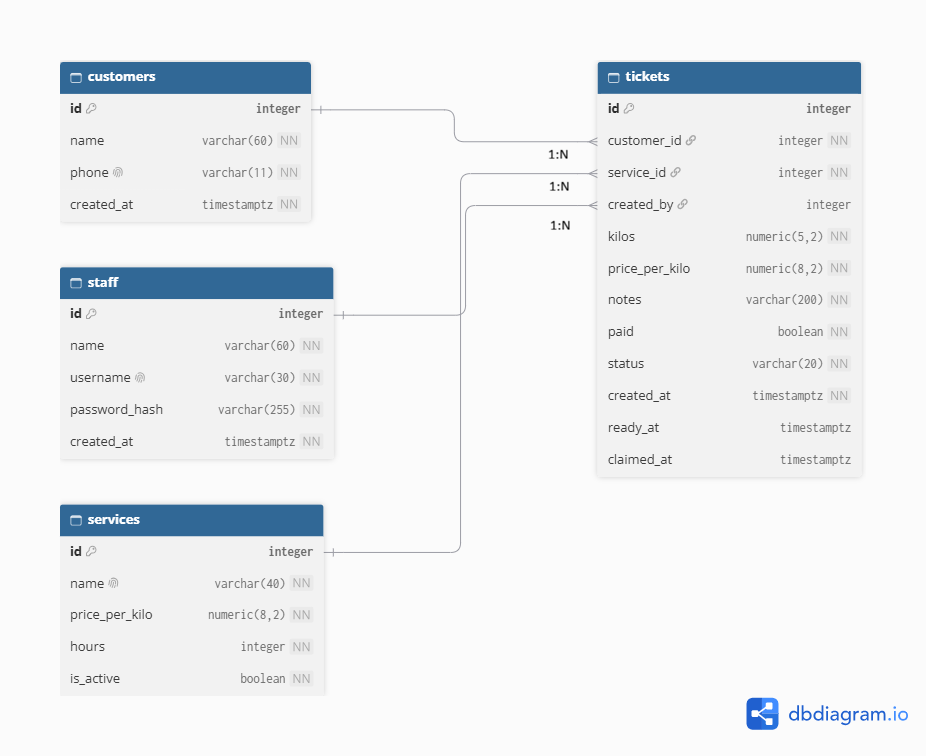
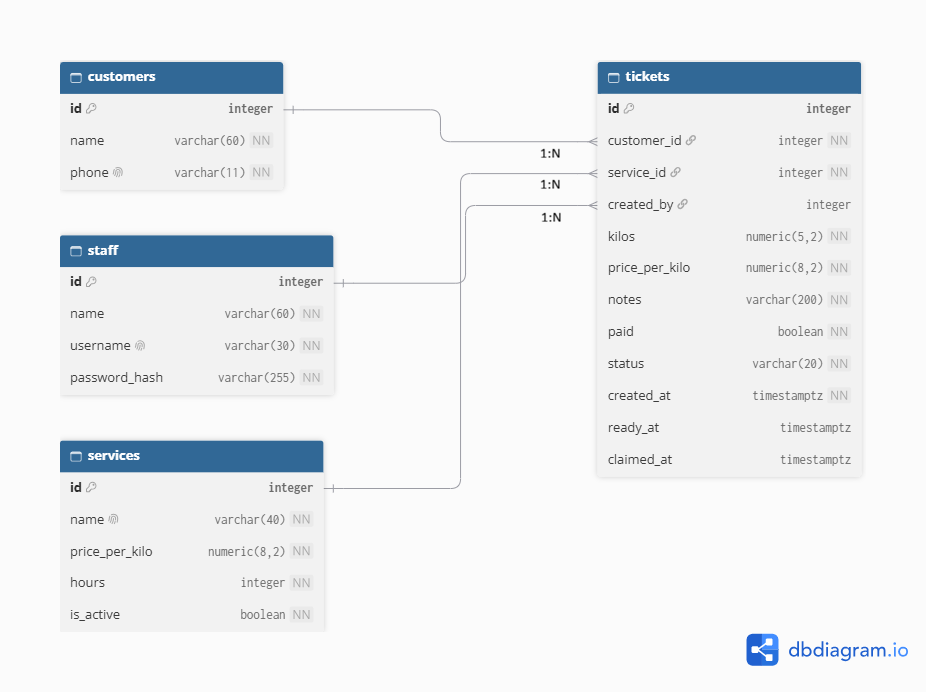
Add schema review and update schema (#2)

diff --git a/docs/week4/schema-review.md b/docs/week4/schema-review.md
@@ -1,0 +1,40 @@
+# CleanQ schema review
+
+I checked the schema against six questions: coverage, one fact in one place, facts not results, bad data, deletes and types. Every Stores data = Yes requirement and every top task in my personas has a table or column, so there are no missing columns. The entries below are the problems and strengths I found.
+
+## Entry 1: ticket price and status
+
+**Works well:** `tickets.price_per_kilo` stores the price at the time of the order, and the total is computed from kilos × price instead of stored. When staff change a service's price (FR-12), old tickets and "Claimed today" sales do not change, and no total ever has to be rewritten. This came from the "Facts, not results" and "One fact in one place" questions.
+
+**Problem:** The `status` column and the `ready_at` and `claimed_at` columns can disagree. A ticket could be `claimed` with no `claimed_at`, which would leave it out of "Claimed today" (FR-11), or have a `claimed_at` earlier than its `created_at`. The column constraints alone do not stop this. Found with question 4, Bad data.
+
+**Change:** Added three table-level CHECK constraints to `tickets` in `schema.md` (section 2c):
+- `CHECK (status <> 'claimed' OR claimed_at IS NOT NULL)`
+- `CHECK (status NOT IN ('ready', 'claimed') OR ready_at IS NOT NULL)`
+- `CHECK (claimed_at IS NULL OR claimed_at >= created_at)`
+
+The ERD is unchanged because no columns were added.
+
+## Entry 2: deletes and unused columns
+
+**Works well:** Both `tickets.customer_id` and `tickets.service_id` use RESTRICT, and services have an `is_active` flag. Staff can switch a service off, but a service or customer with tickets can never be deleted, so old tickets and sales records stay. Only `tickets.created_by` uses SET NULL, because losing "who logged it" matters less than losing the ticket. This came from question 5, Deletes.
+
+**Problem:** `customers.created_at` and `staff.created_at` are not needed by any requirement. Nothing in the app shows or uses when a customer or staff account was made. Found with question 1, Coverage.
+
+**Change:** Removed `created_at` from `customers` and `staff` in `schema.md` (sections 2b and 2c) and in the ERD. `timestamptz` is still used in `tickets`, so every required constraint type is still in the schema.
+
+## Entry 3: customers and bad data
+
+**Works well:** Name and mobile number are stored once in `customers`, not on every ticket. The phone column is UNIQUE with a CHECK for a valid PH number, so one person cannot become two customers by typing the number in different formats once the app normalizes it. Before this, Ana Reyes was stored twice in the list of tickets. This came from question 2, One fact in one place.
+
+**Problem:** The database cannot stop two kinds of mistakes. A foreign key only checks that a service exists, so a ticket can still be created for a service that was switched off. A double tap on "Create ticket" can also make two identical tickets. Found with question 4, Bad data.
+
+**Change:** Kept the schema as it is. The New Order form will only list services where `is_active` is true, and the double-submit guard in `main.js` stays. A database rule for either one would need extra columns or triggers that go beyond a laundry shop's needs, so I am handling them in the app and will test both in Part 4.
+
+## Entry 4: types and estimated pickup
+
+**Works well:** Every moment in time is `timestamptz`, money is `numeric` rather than float or text, kilos have a range CHECK, and `paid` is a boolean. Mobile numbers are text because they are identifiers and not numbers to calculate with. This came from question 6, Types.
+
+**Problem:** Estimated pickup is computed as `tickets.created_at` plus the current `services.hours`. If staff change a service's turnaround (FR-12), the estimate shown on existing tickets changes too. Found with question 3, Facts not results.
+
+**Change:** Kept it, with no stored estimate or `hours` copy on `tickets`. An estimated pickup is a guess that should follow the shop's current turnaround, unlike a price, which is a record of what was charged. Storing a copy would add a column that goes out of date and has to be kept in sync.

diff --git a/docs/week4/schema.md b/docs/week4/schema.md
@@ -34,8 +34,8 @@ Two rules I followed:
 
 | Table | Columns |
 |-------|---------|
-| `customers` | id, name, phone, created_at |
-| `staff` | id, name, username, password_hash, created_at |
+| `customers` | id, name, phone |
+| `staff` | id, name, username, password_hash |
 | `services` | id, name, price_per_kilo, hours, is_active |
 | `tickets` | id, customer_id, service_id, created_by, kilos, price_per_kilo, notes, paid, status, created_at, ready_at, claimed_at |
 
@@ -52,12 +52,10 @@ Where each fact belongs:
 | customers | id | integer, generated | PRIMARY KEY | Generated by the database, never reused |
 | customers | name | varchar(60) | NOT NULL | Every customer has a name, max 60 as in the form |
 | customers | phone | varchar(11) | NOT NULL UNIQUE, CHECK (phone ~ '^09[0-9]{9}$') | One customer per mobile number; only valid PH mobile numbers; stored as text because it is an identifier, not a number to calculate with |
-| customers | created_at | timestamptz | NOT NULL DEFAULT now() | Time zone safe; set by the database |
 | staff | id | integer, generated | PRIMARY KEY | Generated by the database |
 | staff | name | varchar(60) | NOT NULL | Shown in the app |
 | staff | username | varchar(30) | NOT NULL UNIQUE | One account per username |
 | staff | password_hash | varchar(255) | NOT NULL | Only a hash is stored, never the password |
-| staff | created_at | timestamptz | NOT NULL DEFAULT now() | When the account was made |
 | services | id | integer, generated | PRIMARY KEY | Generated by the database |
 | services | name | varchar(40) | NOT NULL UNIQUE | No two services with the same name |
 | services | price_per_kilo | numeric(8,2) | NOT NULL, CHECK (price_per_kilo > 0) | Exact money value; rejects zero or negative prices |
@@ -75,6 +73,14 @@ Where each fact belongs:
 | tickets | created_at | timestamptz | NOT NULL DEFAULT now() | When the order was made; used for order in the queue and estimated pickup |
 | tickets | ready_at | timestamptz | (nullable) | Set when the stage becomes ready; used for unclaimed orders |
 | tickets | claimed_at | timestamptz | (nullable) | Set when claimed; used for "Claimed today" |
+
+**Table-level CHECK constraints on `tickets`:**
+
+| Constraint | Why |
+|------------|-----|
+| CHECK (status <> 'claimed' OR claimed_at IS NOT NULL) | A claimed ticket must have a claim time, or it would be missing from "Claimed today" |
+| CHECK (status NOT IN ('ready', 'claimed') OR ready_at IS NOT NULL) | A ready or claimed ticket must have a ready time, so the unclaimed list works |
+| CHECK (claimed_at IS NULL OR claimed_at >= created_at) | A ticket cannot be claimed before it was created |
 
 Used at least once: PRIMARY KEY, FOREIGN KEY (REFERENCES), NOT NULL, UNIQUE, CHECK and timestamptz.
 
